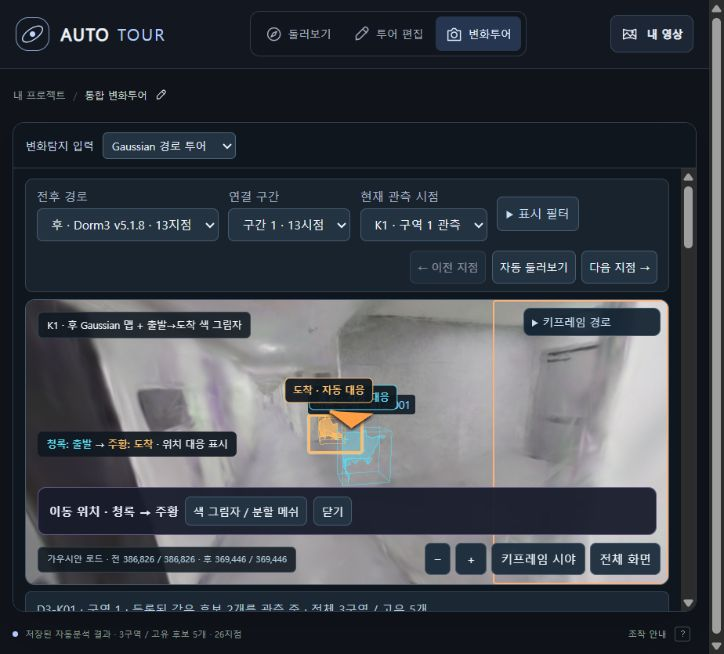
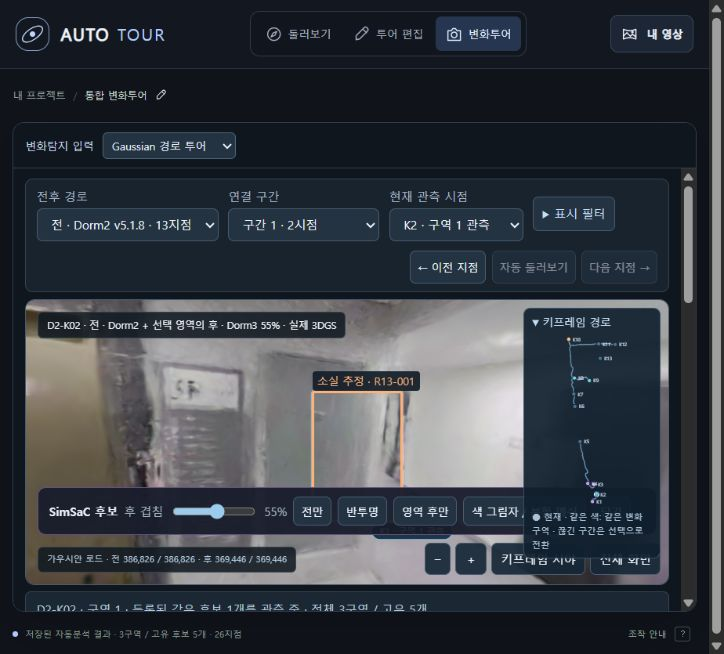
feat(tour): use verified Dorm2 v5.1.8 keypoint route

diff --git a/apps/autotour360/assets/gaussian-change/gaussian-dual-path-tour-20261026/index.html b/apps/autotour360/assets/gaussian-change/gaussian-dual-path-tour-20261026/index.html
@@ -3,11 +3,11 @@
 <style>.input-pair{display:grid;grid-template-columns:1fr 1fr;gap:12px}.input-pair img{width:100%;height:auto;display:block}.input-pair figure{margin:0}.input-pair figcaption{padding:8px 0}.route-note{color:#f6cc89}@media(max-width:800px){.input-pair{grid-template-columns:1fr}}</style></head><body class="uncapped-tour dual-path-tour"><main>
 <div class="eyebrow">BEFORE / AFTER · SAVED KEYPOINT ROUTES</div><h1>전·후 키포인트 경로 둘러보기</h1>
 <p><b>같은 변화는 구역에 한 번만 등록합니다.</b> 여러 키프레임은 같은 후보를 보는 관측 위치입니다. 박스를 누르면 전→후 변화가 표시됩니다.</p>
-<p class="route-note">전: Dorm2 v5.1.7 · 13지점 / 후: Dorm3 v5.1.8 · 13지점. 선택한 촬영의 실제 저장 경로와 맵으로 전환합니다. Dorm2의 끊긴 4구간은 선택으로만 전환합니다.</p>
+<p class="route-note">전: Dorm2 v5.1.8 · 13지점 / 후: Dorm3 v5.1.8 · 13지점. 선택한 촬영의 실제 저장 경로와 맵으로 전환합니다. Dorm2의 끊긴 4구간은 선택으로만 전환합니다.</p>
 <p class="source-links"><a href="route-overview.png" target="_blank">전·후 원본 경로 지도</a> · <a href="../gaussian-map-comparison-20261025/index.html">기존 변화탐지 결과</a> · <a href="REPORT.md">연결 근거</a></p>
 <details class="compact-sources"><summary>전후 Gaussian 맵 정보</summary><div class="sources" id="sources"></div></details>
 <div class="controls">
-<label>전후 경로<select id="plan-group" aria-label="전후 키포인트 경로"><option value="D2">전 · Dorm2 v5.1.7 · 13지점</option><option value="D3">후 · Dorm3 v5.1.8 · 13지점</option></select></label>
+<label>전후 경로<select id="plan-group" aria-label="전후 키포인트 경로"><option value="D2">전 · Dorm2 v5.1.8 · 13지점</option><option value="D3">후 · Dorm3 v5.1.8 · 13지점</option></select></label>
 <label>연결 구간<select id="tour-segment" aria-label="연결 구간"></select></label>
 <label>현재 관측 시점<select id="zone" aria-label="키프레임"></select></label>
 <input id="method" type="hidden" value="simsac">
@@ -37,5 +37,5 @@
 <div class="detail" id="selection" hidden><h2 id="selection-title"></h2><p id="selection-note"></p></div>
 <div class="detail" id="object-evidence-panel" hidden><label><input id="show-object-meshes" type="checkbox" aria-label="전후 분할 객체 메쉬 표시"> 전후 객체 색 그림자 표시 <span class="object-before">전: 청록</span> · <span class="object-after">후: 주황</span></label> <label><input id="show-object-context" type="checkbox" aria-label="연결된 분할 조각 모두 표시"> 연결된 조각 모두</label><div id="object-evidence-content"></div></div>
 
-<details class="detail"><summary>맵·키프레임·정합 근거</summary><div id="audit"></div><p>기존 전역·구역별 메쉬 정합과 잔차 보정을 가우시안에 적용한 뒤 렌더링했습니다. 새 Gaussian 정합이나 픽셀 단위 보정은 하지 않았습니다. R07·R09·R10·R11은 기존 구조 관측의 정합 지원이 부족합니다.</p><p>원본 키포인트는 전 Dorm2 v5.1.7과 후 Dorm3 v5.1.8입니다. 두 맵은 서로 다른 층의 Dorm2·Dorm3입니다. 변화 후보에는 재구성·가림·정합 잔차가 포함될 수 있습니다. 원본 경로의 연결성은 확인했으며 객체 관측 커버리지·계산 모델 검증과 실제 보행 안전은 미검증 상태입니다.</p><div class="links"><a href="tour-validation.json">검증</a><a href="gaussian-data.json">카메라·맵</a><a href="simsac-candidates.json">기존 추론 결과</a><a href="tour-candidates.json">고정 후보·가림 근거</a><a href="tour-routes.json">저장 경로</a><a href="change-regions.json">고유 후보·관측 연결</a></div></details>
+<details class="detail"><summary>맵·키프레임·정합 근거</summary><div id="audit"></div><p>기존 전역·구역별 메쉬 정합과 잔차 보정을 가우시안에 적용한 뒤 렌더링했습니다. 새 Gaussian 정합이나 픽셀 단위 보정은 하지 않았습니다. R07·R09·R10·R11은 기존 구조 관측의 정합 지원이 부족합니다.</p><p>원본 키포인트는 전 Dorm2 v5.1.8과 후 Dorm3 v5.1.8입니다. 두 맵은 서로 다른 층의 Dorm2·Dorm3입니다. 변화 후보에는 재구성·가림·정합 잔차가 포함될 수 있습니다. 원본 경로의 연결성은 확인했으며 객체 관측 커버리지·계산 모델 검증과 실제 보행 안전은 미검증 상태입니다.</p><div class="links"><a href="tour-validation.json">검증</a><a href="gaussian-data.json">카메라·맵</a><a href="simsac-candidates.json">기존 추론 결과</a><a href="tour-candidates.json">고정 후보·가림 근거</a><a href="tour-routes.json">저장 경로</a><a href="change-regions.json">고유 후보·관측 연결</a></div></details>
 <pre id="error" role="alert"></pre></main><script type="module" src="viewer.js?v=dual-path-1"></script></body></html>

diff --git a/apps/autotour360/tests/test_gaussian_runtime.py b/apps/autotour360/tests/test_gaussian_runtime.py
@@ -14,6 +14,16 @@ def read(path):
 
 
 class GaussianRuntime(unittest.TestCase):
+    def test_before_path_is_a_verified_fresh_v518_planner_replay(self):
+        audit=read(TOUR/'route-update.json')
+        self.assertTrue(audit['passed'])
+        self.assertTrue(audit['fresh_planner_execution'])
+        self.assertEqual(audit['pipeline_version'],'5.1.8')
+        self.assertEqual(audit['plan_sha256'],audit['previous_plan_sha256'])
+        self.assertEqual(audit['requests_sha256'],hashlib.sha256((TOUR/'source-requests/D2.json').read_bytes()).hexdigest())
+        self.assertTrue(audit['poses_exactly_unchanged'] and audit['links_exactly_unchanged'])
+        self.assertEqual([g['pipeline_version'] for g in read(TOUR/'tour-routes.json')['groups']],['5.1.8','5.1.8'])
+
     def test_public_runtime_matches_its_integrity_manifest(self):
         manifest = read(ROOT / 'runtime-manifest.json')
         self.assertFalse(manifest['model_parameters_included'])

diff --git a/apps/autotour360/gaussian_assets.py b/apps/autotour360/gaussian_assets.py
@@ -10,7 +10,7 @@ PAGE=f'/gaussian-change/{TOUR}/index.html?embed=1'
 PUBLIC={'index.html','viewer.js','viewer.css','tour.js','tour_navigation.js','object_evidence.js','change_regions.js',
         'gaussian-data.json','simsac-candidates.json','simsac-model.json','object-evidence.json','automatic-matching.json',
         'tour-candidates.json','tour-routes.json','change-regions.json','tour-validation.json','automatic-replay-audit.json',
-        'route-overview.png','REPORT.md','README.md','gaussian-validation.json','shared-change-validation.json'}
+        'route-overview.png','REPORT.md','README.md','gaussian-validation.json','shared-change-validation.json','route-update.json'}
 
 
 def asset_path(root,route):

diff --git a/apps/autotour360/README.md b/apps/autotour360/README.md
@@ -4,7 +4,9 @@
 
 앞으로 변화투어의 기본 화면은 이 통합 뷰어입니다. 상단 **변화투어** 또는 `?mode=changes`로 진입합니다. 전·후 키포인트 경로를 각각 선택하고 저장 경로를 따라 이동하면 관측 가능한 변화 후보가 표시됩니다. 이동 박스는 출발(청록)→도착(주황)과 방향 화살표를 표시합니다. 일반 둘러보기/편집으로 돌아가도 기존 프로젝트를 유지합니다.
 
-현재 자료는 전 Dorm2 v5.1.7 13지점·9연결·4구간 / 후 Dorm3 v5.1.8 13지점·12연결·1구간입니다. 각 경로의 13지점 전체를 미니맵과 선택 목록에 표시하며, 끊긴 구간 사이에는 경로를 생성하지 않습니다. 같은 변화는 고유 이벤트 5개로 유지하며 관측 링크는 18개입니다. 원본 계획·포즈·52개 렌더 검증은 번들 `tour-validation.json`에 있습니다.
+현재 자료는 전 Dorm2 v5.1.8 13지점·9연결·4구간 / 후 Dorm3 v5.1.8 13지점·12연결·1구간입니다. 각 경로의 13지점 전체를 미니맵과 선택 목록에 표시하며, 끊긴 구간 사이에는 경로를 생성하지 않습니다. 같은 변화는 고유 이벤트 5개로 유지하며 관측 링크는 18개입니다. 원본 계획·포즈·52개 렌더 검증은 번들 `tour-validation.json`에 있습니다.
+
+Dorm2는 v5.1.8 코드 스냅샷으로 기존 장면에서 선정 단계를 새로 실행했습니다. v5.1.8의 Dorm2 선정 방식은 유지되어, 지점·포즈·방문 순서·연결과 출력 파일 SHA-256이 v5.1.7 결과와 정확히 같았습니다. 전체 파이프라인이나 Gaussian 학습을 다시 실행한 것은 아닙니다. 원본의 계획 미완료·목표 미달 상태도 그대로이며 4개 구간을 임의로 연결하지 않습니다. 근거는 번들 `route-update.json`입니다.
 
 ```bash
 python apps/autotour360/server.py --port 4190

diff --git a/apps/autotour360/CHANGELOG.md b/apps/autotour360/CHANGELOG.md
@@ -1,5 +1,13 @@
 # AUTO TOUR 360 변경 기록
 
+## 2026-10-27 · Dorm2 v5.1.8 키포인트 경로
+
+- 전 경로를 v5.1.8 플래너로 새로 실행한 Dorm2 결과에 연결했다. Dorm3 경로도 기존 v5.1.8을 유지한다.
+- Dorm2는 13지점·9연결·4구간으로, 원래 v5.1.7의 계획·렌더 요청 파일과 SHA-256까지 같다. 135개 코드 파일의 스냅샷과 입력 장면 해시, 실제 재실행 기록을 `route-update.json`에 기록했다.
+- 전후 Gaussian·13개 구역별 정합·변화 후보·객체 분류·52개 렌더를 유지한다. 연결이 없는 구간 사이에 보행 경로를 추가하지 않는다.
+
+검증: v5.1.8 실제 선정 재실행, 모든 포즈·방문 순서·연결·렌더 요청의 완전 일치, 공개 런타임 무결성과 뷰어의 전후 버전 표시를 확인했다.
+
 ## 2026-10-27 · 통합 변화투어
 
 - 상단 **변화투어**를 Gaussian 경로 투어의 기본 진입점으로 연결했다. 전 Dorm2 v5.1.7과 후 Dorm3 v5.1.8의 경로를 각각 선택하며 해당 촬영의 맵도 함께 전환한다.

diff --git a/README.md b/README.md
@@ -2,7 +2,7 @@
 
 ## 통합 변화투어 · 2026-10-27
 
-`main`의 Auto Tour 360 상단 **변화투어**에서 Gaussian 전후 경로와 기존 자동 변화 후보를 함께 봅니다. 전 Dorm2 v5.1.7은 13지점·4구간, 후 Dorm3 v5.1.8은 13지점·1구간이며 경로를 바꾸면 해당 촬영의 맵도 전환합니다. 현재 고유 후보 5개와 출발→도착 색 그림자를 유지합니다. [실행·입력 연결](apps/autotour360/README.md#통합-변화투어)
+`main`의 Auto Tour 360 상단 **변화투어**에서 Gaussian 전후 경로와 기존 자동 변화 후보를 함께 봅니다. 전 Dorm2와 후 Dorm3 모두 v5.1.8 키포인트 경로이며, 각각 13지점·4구간 / 13지점·1구간입니다. 경로를 바꾸면 해당 촬영의 맵도 전환합니다. 현재 고유 후보 5개와 출발→도착 색 그림자를 유지합니다. [실행·입력 연결](apps/autotour360/README.md#통합-변화투어)
 
 원본 메시 경로:
 
